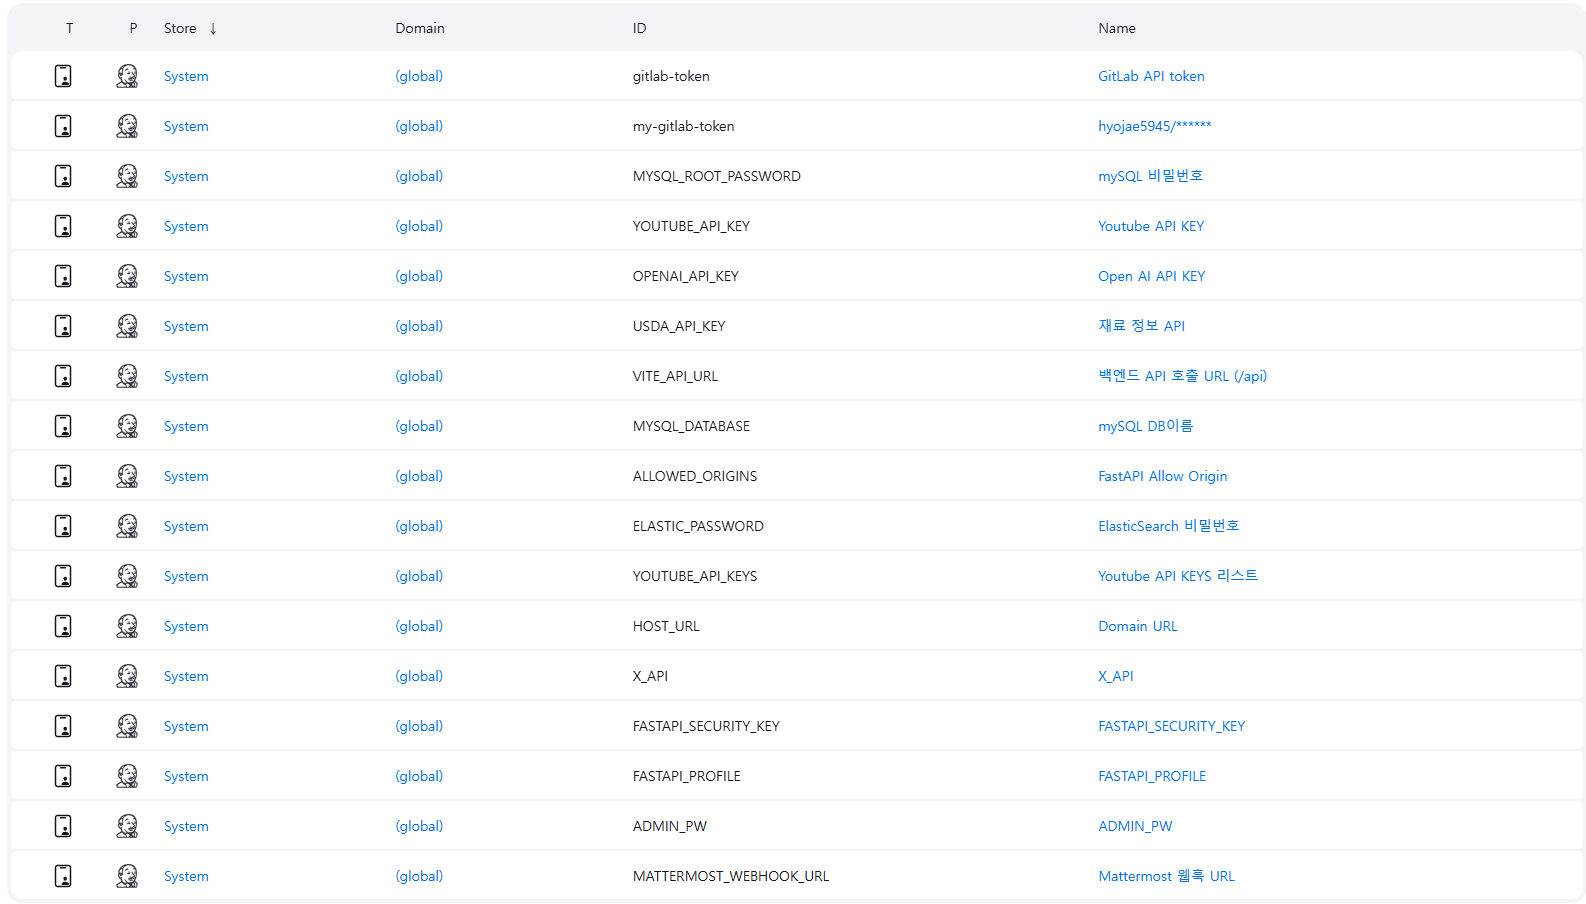
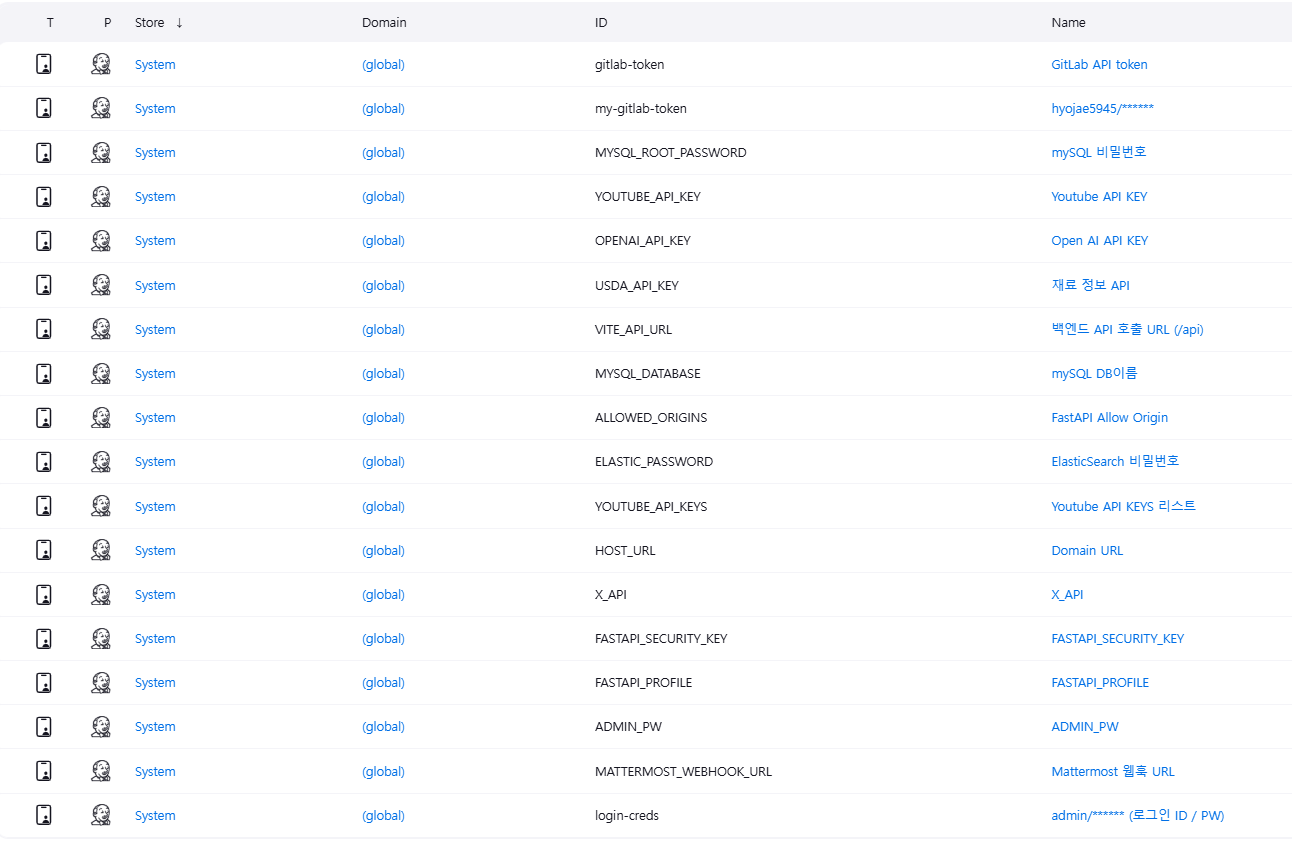
Docs: 포팅메뉴얼 업데이트 - EC2 초기 설정 - ES, Kibana 설정

diff --git a/exec/README.md b/exec/README.md
@@ -2,7 +2,7 @@
 
 ## 1⃣ 개요 및 목적
 
-삼성전자 DA 사업부 연계로 진행한 프로젝트로 'LLM을 이용한 냉장고 고내 재료 기반 레시피 추천 서비스'<br>
+삼성전자 DA 사업부 연계로 진행한 프로젝트로 **'LLM을 이용한 냉장고 고내 재료 기반 레시피 추천 서비스'**<br>
 AI 냉장고와 연계하여 고내 재료 기반으로 사용자가 쉽게 레시피를 찾아 이용할 수 있습니다.<br>
 
 ## 2⃣ 시스템 아키텍처 및 구성요소
@@ -90,26 +90,72 @@ ssh -i J12S003T.pem ubuntu@j12s003.p.ssafy.io
 
 ### 1. Git, Docker, Docker-compose 설치
 
-<git, docker, docker-compose설치 명령어>
+```sh
+sudo apt update -y && sudo apt upgrade -y
+sudo apt install -y git
+git --version  # 설치 확인
+# 필수 패키지 설치
+sudo apt install -y ca-certificates curl gnupg
+
+# Docker 공식 GPG 키 추가
+sudo install -m 0755 -d /etc/apt/keyrings
+curl -fsSL https://download.docker.com/linux/ubuntu/gpg | sudo tee /etc/apt/keyrings/docker.asc > /dev/null
+sudo chmod a+r /etc/apt/keyrings/docker.asc
+
+# Docker 저장소 추가
+echo "deb [arch=$(dpkg --print-architecture) signed-by=/etc/apt/keyrings/docker.asc] https://download.docker.com/linux/ubuntu $(lsb_release -cs) stable" | sudo tee /etc/apt/sources.list.d/docker.list > /dev/null
+
+# 패키지 목록 업데이트 및 Docker 설치
+sudo apt update -y
+sudo apt install -y docker-ce docker-ce-cli containerd.io docker-buildx-plugin docker-compose-plugin
+
+# Docker 서비스 실행 및 부팅 시 자동 실행 설정
+sudo systemctl start docker
+sudo systemctl enable docker
+
+# 현재 사용자를 Docker 그룹에 추가 (재로그인 필요)
+sudo usermod -aG docker $USER
+newgrp docker  # 변경 적용
+docker version  # 설치 확인
+# 최신 버전 다운로드
+sudo curl -L "https://github.com/docker/compose/releases/latest/download/docker-compose-$(uname -s)-$(uname -m)" -o /usr/local/bin/docker-compose
+
+# 실행 권한 부여
+sudo chmod +x /usr/local/bin/docker-compose
+
+# 버전 확인
+docker-compose version
+```
 
 ### 2. git repository 동기화
 
 ```bash
+# 소스코드 url clone
 git clone https://lab.ssafy.com/s12-s-project/S12P21S003.git
 ```
 
 ### 3. SSL 인증서 설치
 
-```nginx
-// frontend/nginx.conf에 다음과 같이 SSL 인증서를 설정하는 부분이 있습니다
+```sh
+# frontend/nginx.conf에 다음과 같이 SSL 인증서를 설정하는 부분이 있습니다
 ssl_certificate /etc/letsencrypt/live/j12s003.p.ssafy.io/fullchain.pem;
 ssl_certificate_key /etc/letsencrypt/live/j12s003.p.ssafy.io/privkey.pem;
 
-// docker-compose-infra.yml에 보면 volumn으로 SSL 인증서를 nginx에 마운트합니다
+# docker-compose-infra.yml에 보면 volumn으로 SSL 인증서를 nginx에 마운트합니다
 volumes:
       - /etc/letsencrypt:/etc/letsencrypt:ro
 
-// 따라서 host의 /etc/letsencrypt 폴더 아래에 SSL 인증서 파일이 존재해야합니다
+# 따라서 host의 /etc/letsencrypt 폴더 아래에 SSL 인증서 파일이 존재해야합니다
+
+# ssh 인증서를 설치하는 과정은 80번 포트를 사용중이기 때문에
+# nginx가 80번 포트에서 가동중이라면 포트 점유를 해제하고 진행해야합니다
+sudo apt install certbot python3-certbot-nginx
+
+# 잘 설치됐는지 확인
+certbot --version
+
+# domain-url에 프로젝트 도메인 입력
+sudo certbot certonly --standalone -d domain-url
 ```
 
 ## 📌환경 변수 - 설정 및 커스터마이징
@@ -127,6 +173,7 @@ volumes:
 - host_url : 서비스의 도메인 주소, 현재는 https://j12s003.p.ssafy.io/
 - mattermost_webhook_url : mattermost의 incoming webhook url
 - admin_pw : 로그인시 사용할 비밀번호 설정
+- login-creds : 프로젝트의 ID/PW, 토큰 발급받기 위해 사용
 
 ### 2. Jenkins Plugin 설정
 
@@ -155,49 +202,20 @@ jenkins multibranch pipeline 생성시 사용한 job 이름을 기반으로 gitl
 trigger에 push event 선택 후 regular expression에서 트리거 브랜치 설정<br>
 하단의 test버튼으로 정상작동하는지 확인<br>
 
-## 4⃣설치 및 배포 절차
-
-#### 1. Docker 및 Docker-compose 설치
-
-```
-# Docker 설치
-# Add Docker's official GPG key:
-sudo apt-get update
-sudo apt-get install ca-certificates curl
-sudo install -m 0755 -d /etc/apt/keyrings
-sudo curl -fsSL https://download.docker.com/linux/ubuntu/gpg -o /etc/apt/keyrings/docker.asc
-sudo chmod a+r /etc/apt/keyrings/docker.asc
-
-# Add the repository to Apt sources:
-echo \
-"deb [arch=$(dpkg --print-architecture) signed-by=/etc/apt/keyrings/docker.asc] https://download.docker.com/linux/ubuntu \ $(. /etc/os-release && echo "${UBUNTU_CODENAME:-$VERSION_CODENAME}") stable" | \ sudo tee /etc/apt/sources.list.d/docker.list > /dev/null
-
-sudo apt-get update
-sudo apt-get install docker-ce docker-ce-cli containerd.io docker-buildx-plugin docker-compose-plugin
-docker --version
-
-# Docker-compose 별도 설치
-curl -L
-"https://github.com/docker/compose/releases/download/v2.2.2/docker-compose-$(uname -s)-$(uname -m)"
--o /usr/local/bin/docker-compose
-sudo chmod +x /usr/local/bin/docker-compose
-docker compose --version
-```
-
 ## 서비스 실행
 
 ### 인프라(nginx, mysql)
 
-```bash
+```sh
 cd S12P11B102
 MYSQL_ROOT_PASSWORD='설정하고픈 PW' docker-compose -f docker-compose-infra.yml up -d --build
 ```
 
-인프라의 컨테이너는 항상 가동중이기 때문에 실행할때 password 설정해줌<br>
+인프라의 컨테이너는 항상 가동중이기 때문에 실행할때 password 설정해줍니다다<br>
 
 ### db database 생성
 
-```bash
+```sh
 docker exec -it my-mysql-${BRANCH_NAME} mysql -u root -p
 ```
 
@@ -207,23 +225,77 @@ docker exec -it my-mysql-${BRANCH_NAME} mysql -u root -p
 create database recipidia
 ```
 
-사용할 database을 만들어줌<br>
+사용할 database을 만들어줍니다<br>
 
 ### ElasticSearch, kibana
 
-```bash
+```sh
 docker-compose -f docker-compose-es.yml up -d --build
 ```
 
 ### ES 및 Kibana 초기설정
 
-내용...
+#### ES password 초기 세팅
+```sh
+docker exec -it my-elasticSearch /bin/bash
+
+# password 설정 interactive 환경 입장
+# 여기서 password를 지정
+bin/elasticsearch-setup-passwords interactive
+
+docker restart my-elasticSearch
+```
+
+#### kibana에 es password 전달하며 docker 컨테이너 실행
+```sh
+ELASTICSEARCH_PASSWORD="MY_PASSWORD" docker-compose -f docker-compose-es.yml up -d
+```
+이후 컨테이너가 모두 정상적으로 가동됐는지 확인<br>
+`domain:5601`로 접근하여 ID : elastic, PW : 미리 설정한 PW로 kibana 입장<br>
+좌상단에 메뉴를 누르고 하단에 Dev Tools에 입장해서 다음과 같은 명령어 실행<br>
+
+```json
+// kibana 전체 인덱스 확인
+GET _cat/indices?v
+
+// 현재 kibana 인덱스 설정 확인
+GET ingredient/_settings
+
+// kibana 인덱스 설정 세팅
+PUT ingredient
+{
+  "settings": {
+    "analysis": {
+      "analyzer": {
+        "korean_exact_analyzer": {
+          "type": "custom",
+          "tokenizer": "standard"
+        }
+      }
+    }
+  },
+  "mappings": {
+    "properties": {
+      "id": { "type": "keyword" },
+      "name": {
+        "type": "text",
+        "analyzer": "korean_exact_analyzer",
+        "search_analyzer": "korean_exact_analyzer"
+      }
+    }
+  }
+}
+
+// 인덱스 설정 잘 됐는지 확인
+GET ingredient/_settings
+```
 
 ### Jenkins CI/CD 파이프라인
+#### 프로젝트 가동하는 방법<br>
+1. 지정된 브랜치(master/release)에 merge/push 이벤트가 발생한 Jenkinsfile 실행됌
+2. Jenkins UI dashboard에서 생성한 multibranch-pipeline 들어간 후 "직접 빌드"를 클릭한다 (이 방법 추천, git repo에 접근권한 없을 수 있으니)
 
-이후 지정된 브랜치(master/release)에 merge/push 이벤트가 발생한 Jenkinsfile 실행됌<br>
-
-```bash
+```sh
 docker ps -a
 ```
 
@@ -234,7 +306,7 @@ docker ps -a
 ### 식재료 검색이 안될 시(Elastic Search가 안될시)
 
 먼저 domain:5601로 접속하여 kibana devtools에 접속합니다<br>
-<kibana 명령어 들어갈 자리> 로 index를 확인합니다<br>
+`GET _cat/indices?v` 로 index를 확인합니다<br>
 ingredient index가 비어있을 시 DB에 접속해 ingredient 테이블의 데이터를 전부 지워줍니다(drop table)<br>
 그 후 다음 셋중 하나의 행동을 취합니다<br>
 
